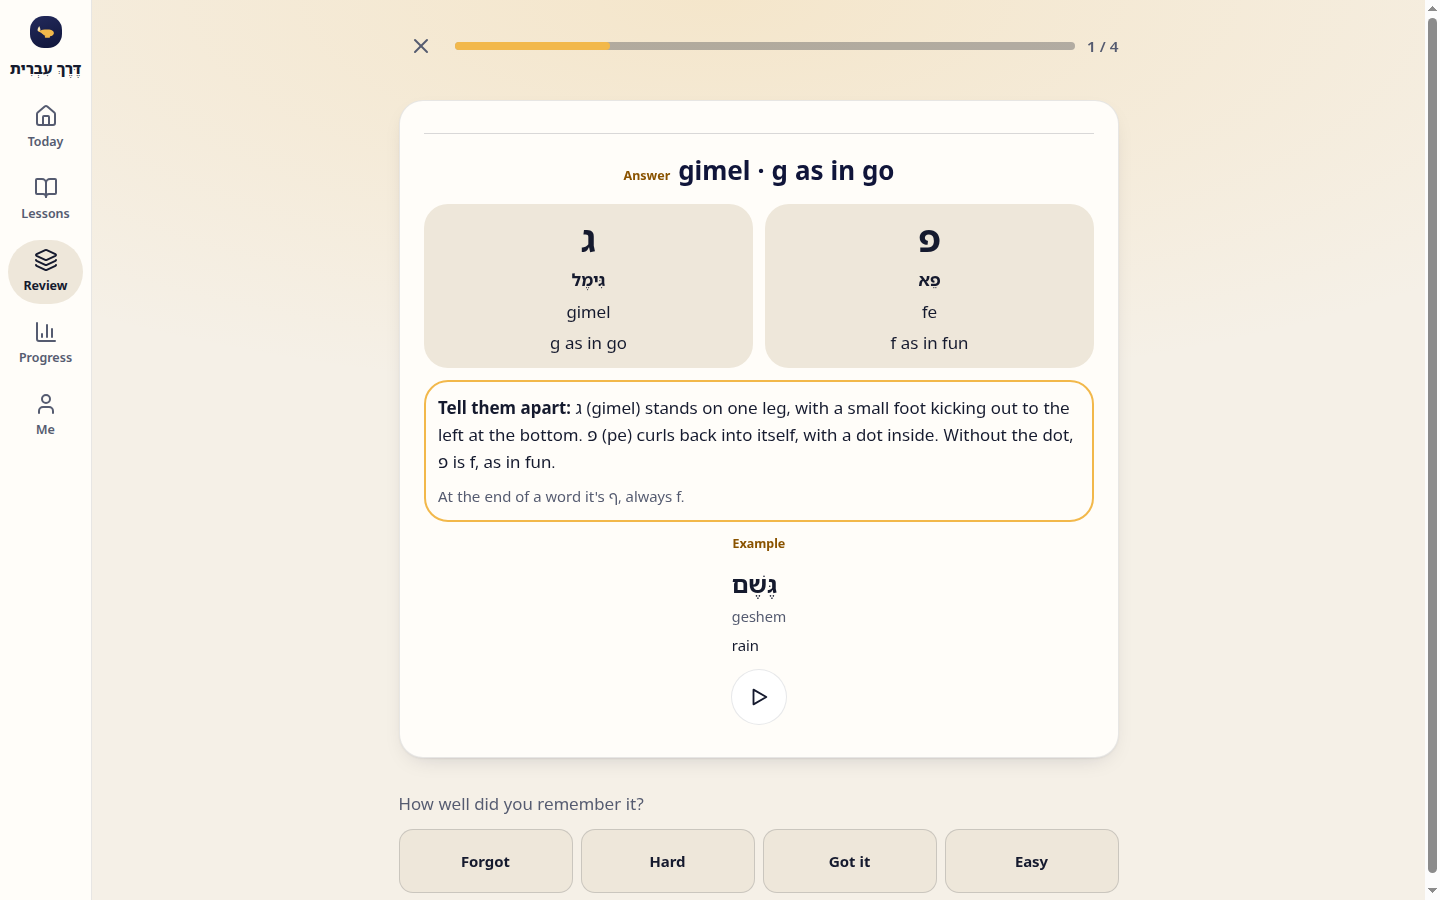
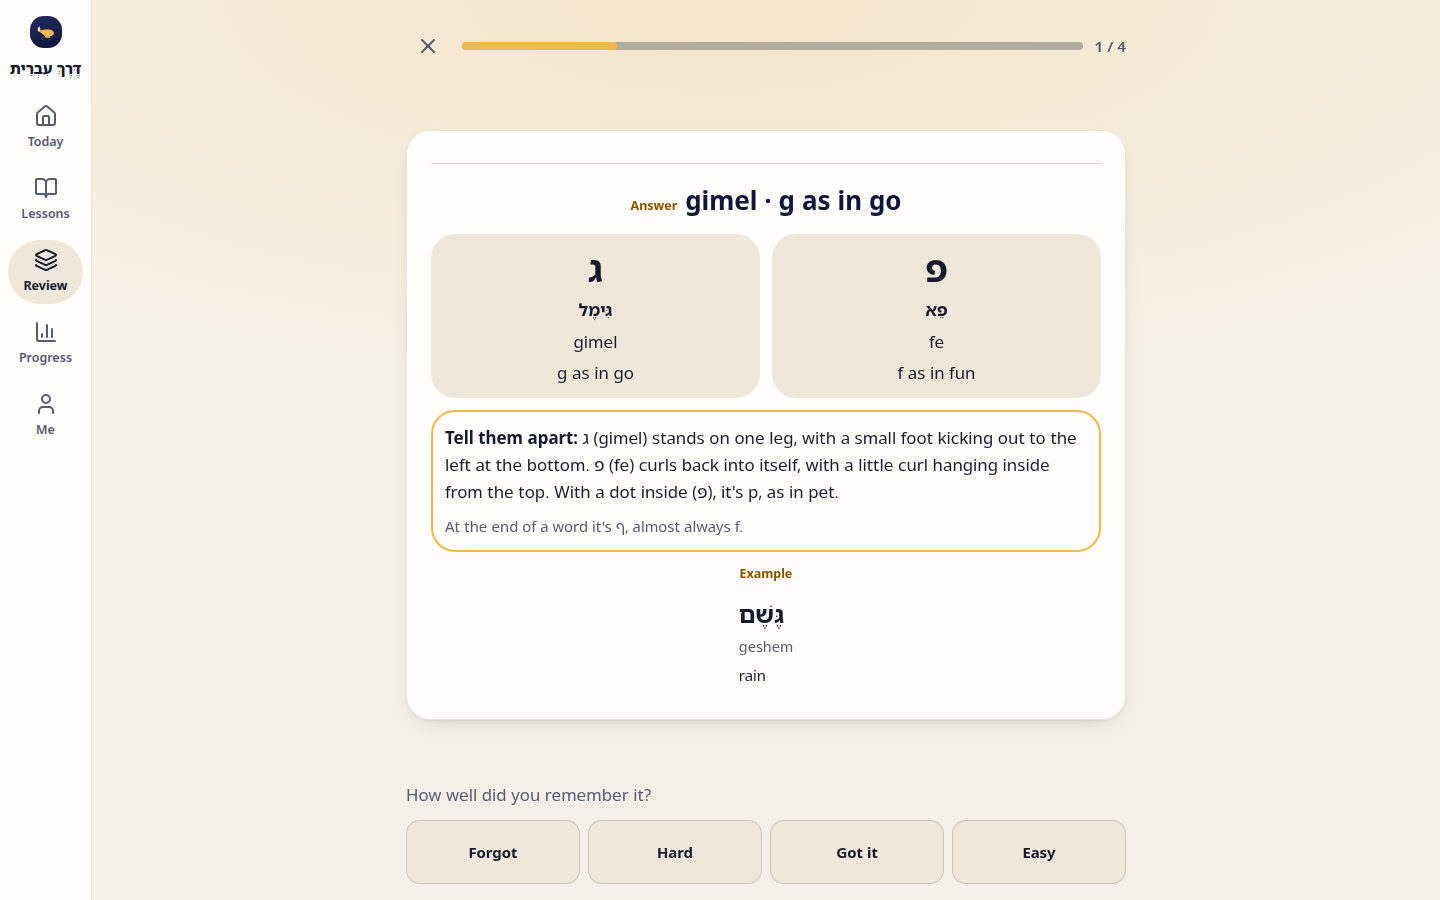
Name each dotted cue with the glyph it shows.
בּ, כּ, and פּ use bet, kaf, and pe. ג/פ names fe, and the final-pe note says almost always f.

diff --git a/internal/web/alefbet_test.go b/internal/web/alefbet_test.go
@@ -7,6 +7,7 @@ import (
 	"unicode"
 
 	"github.com/NetworkBuild3r/hebrew-lessons/internal/web/views"
+	"golang.org/x/text/unicode/norm"
 )
 
 var alefbetTranslit = regexp.MustCompile(`^[a-z' -]+$`)
@@ -192,6 +193,127 @@ func TestAlefbetReference(t *testing.T) {
 	}
 }
 
+// cueLabel is a "glyph (name)" in a tell-apart line. The glyph may include
+// dagesh (U+05BC) or a shin/sin dot.
+var cueLabel = regexp.MustCompile(`([\p{Hebrew}]+) \(([^)]+)\)`)
+
+// TestAlefbetPairLabels checks every pair variant: the name in each label is
+// the name of the glyph that label shows. Dagesh is U+05BC. The expected
+// names are written here, not taken from the cue constants.
+func TestAlefbetPairLabels(t *testing.T) {
+	const dagesh = "\u05BC"
+	names := map[string]string{
+		"\u05D1":          "vet",
+		"\u05D1" + dagesh: "bet",
+		"\u05DB":          "khaf",
+		"\u05DB" + dagesh: "kaf",
+		"\u05E4":          "fe",
+		"\u05E4" + dagesh: "pe",
+		"\u05DA":          "khaf sofit",
+		"\u05E3":          "fe sofit",
+		"\u05DD":          "mem sofit",
+		"\u05DF":          "nun sofit",
+		"\u05E5":          "tsadi sofit",
+		"\u05D2":          "gimel",
+		"\u05D3":          "dalet",
+		"\u05D4":          "he",
+		"\u05D5":          "vav",
+		"\u05D6":          "zayin",
+		"\u05D7":          "khet",
+		"\u05D8":          "tet",
+		"\u05DE":          "mem",
+		"\u05E0":          "nun",
+		"\u05E1":          "samekh",
+		"\u05E2":          "ayin",
+		"\u05E6":          "tsadi",
+		"\u05E8":          "resh",
+		"\u05EA":          "tav",
+		"\u05E9\u05C1":    "shin",
+		"\u05E9\u05C2":    "sin",
+	}
+	variants := [][2]string{
+		{"\u05D1", "\u05DB"},
+		{"\u05D1" + dagesh, "\u05DB"},
+		{"\u05D1", "\u05DB" + dagesh},
+		{"\u05D1" + dagesh, "\u05DB" + dagesh},
+		{"\u05D3", "\u05E8"},
+		{"\u05D4", "\u05D7"},
+		{"\u05D7", "\u05EA"},
+		{"\u05D5", "\u05D6"},
+		{"\u05D5", "\u05DF"},
+		{"\u05D8", "\u05DE"},
+		{"\u05E1", "\u05DD"},
+		{"\u05D2", "\u05E0"},
+		{"\u05E6", "\u05E2"},
+		{"\u05E4", "\u05DB"},
+		{"\u05E4" + dagesh, "\u05DB"},
+		{"\u05E4", "\u05DB" + dagesh},
+		{"\u05E4" + dagesh, "\u05DB" + dagesh},
+		{"\u05E3", "\u05DA"},
+		{"\u05E9\u05C1", "\u05E9\u05C2"},
+		{"\u05DE", "\u05DD"},
+		{"\u05E0", "\u05DF"},
+		{"\u05DB", "\u05DA"},
+		{"\u05DB" + dagesh, "\u05DA"},
+		{"\u05E4", "\u05E3"},
+		{"\u05E4" + dagesh, "\u05E3"},
+		{"\u05E6", "\u05E5"},
+		{"\u05D2", "\u05E4"},
+		{"\u05D2", "\u05E4" + dagesh},
+	}
+	if len(variants) != 28 {
+		t.Fatalf("pair variants = %d, want 28", len(variants))
+	}
+	exact := map[string]string{
+		"\u05D1" + dagesh + "/\u05DB": "\u05D1" + dagesh + " (bet) has a little tail at the bottom right; \u05DB (khaf) is round.",
+		"\u05DB" + dagesh + "/\u05DA": "\u05DB" + dagesh + " (kaf) sits on the line; \u05DA (khaf sofit) drops below the line.",
+		"\u05E4" + dagesh + "/\u05E3": "\u05E4" + dagesh + " (pe) sits on the line; \u05E3 (fe sofit) drops below the line.",
+		"\u05D2/\u05E4":               "\u05D2 (gimel) stands on one leg, with a small foot kicking out to the left at the bottom. \u05E4 (fe) curls back into itself, with a little curl hanging inside from the top. With a dot inside (\u05E4" + dagesh + "), it's p, as in pet.",
+		"\u05D2/\u05E4" + dagesh:      "\u05D2 (gimel) stands on one leg, with a small foot kicking out to the left at the bottom. \u05E4" + dagesh + " (pe) curls back into itself, with a dot inside. Without the dot, \u05E4 is f, as in fun.",
+	}
+	wantNote := "At the end of a word it's \u05E3, almost always f."
+	for _, pair := range variants {
+		cue := views.AlefbetTellApart([]string{pair[0], pair[1]})
+		if cue == "" {
+			t.Fatalf("%q/%q has no cue", pair[0], pair[1])
+		}
+		key := pair[0] + "/" + pair[1]
+		if want, ok := exact[key]; ok && cue != want {
+			t.Fatalf("%s cue = %q", key, cue)
+		}
+		seen := map[string]string{}
+		for _, m := range cueLabel.FindAllStringSubmatch(cue, -1) {
+			glyph := norm.NFC.String(m[1])
+			want, ok := names[glyph]
+			if !ok {
+				t.Fatalf("%s labels unknown glyph %q as %q", key, glyph, m[2])
+			}
+			if m[2] != want {
+				t.Fatalf("%s label %q wants %q, got %q", key, glyph, want, m[2])
+			}
+			seen[glyph] = m[2]
+		}
+		if len(seen) == 0 {
+			t.Fatalf("%s cue has no glyph label: %q", key, cue)
+		}
+		for _, letter := range pair {
+			glyph := norm.NFC.String(letter)
+			want, ok := names[glyph]
+			if !ok {
+				t.Fatalf("%s has no name for %q", key, glyph)
+			}
+			if seen[glyph] != want {
+				t.Fatalf("%s does not label %q as %q: %q", key, glyph, want, cue)
+			}
+		}
+	}
+	for _, pair := range [][2]string{{"\u05D2", "\u05E4"}, {"\u05D2", "\u05E4" + dagesh}} {
+		if got := views.AlefbetPairNote([]string{pair[0], pair[1]}); got != wantNote {
+			t.Fatalf("%q/%q note = %q", pair[0], pair[1], got)
+		}
+	}
+}
+
 func nameHasNiqqud(s string) bool {
 	for _, r := range s {
 		if unicode.Is(unicode.Mn, r) {
@@ -272,21 +394,25 @@ func TestReviewPeDageshUsesAlefbet(t *testing.T) {
 
 const (
 	gimelPeCue   = "ג (gimel) stands on one leg, with a small foot kicking out to the left at the bottom. פּ (pe) curls back into itself, with a dot inside. Without the dot, פ is f, as in fun."
-	gimelPeNote  = "At the end of a word it's ף, always f."
+	gimelFeCue   = "ג (gimel) stands on one leg, with a small foot kicking out to the left at the bottom. פ (fe) curls back into itself, with a little curl hanging inside from the top. With a dot inside (פּ), it's p, as in pet."
+	gimelPeNote  = "At the end of a word it's ף, almost always f."
 	hardNoteHTML = `At the start of a word, <bdi lang="he" dir="rtl">ב</bdi>, <bdi lang="he" dir="rtl">כ</bdi>, and <bdi lang="he" dir="rtl">פ</bdi> are almost always hard (b, k, p).`
 )
 
 // TestReviewGimelPeCue renders Brian's ג/פ cue and the final-pe note.
 func TestReviewGimelPeCue(t *testing.T) {
-	if !strings.Contains(gimelPeCue, "\u05e4\u05bc (pe)") || !strings.Contains(gimelPeNote, "\u05e3") {
-		t.Fatal("gimel/pe cue must name פּ and the note must name ף")
+	if !strings.Contains(gimelPeCue, "\u05e4\u05bc (pe)") || !strings.Contains(gimelFeCue, "\u05e4 (fe)") || !strings.Contains(gimelPeNote, "almost always f") {
+		t.Fatal("gimel/pe cues must name the letter the card shows, and the note must say almost always f")
 	}
-	for _, key := range []string{"ג/פ", "ג/פ\u05BC"} {
-		if views.AlefbetTellApart(strings.Split(key, "/")) != gimelPeCue {
-			t.Fatalf("%s cue = %q", key, views.AlefbetTellApart(strings.Split(key, "/")))
+	for _, row := range []struct{ key, cue string }{
+		{"ג/פ", gimelFeCue},
+		{"ג/פ\u05BC", gimelPeCue},
+	} {
+		if views.AlefbetTellApart(strings.Split(row.key, "/")) != row.cue {
+			t.Fatalf("%s cue = %q", row.key, views.AlefbetTellApart(strings.Split(row.key, "/")))
 		}
-		if views.AlefbetPairNote(strings.Split(key, "/")) != gimelPeNote {
-			t.Fatalf("%s note = %q", key, views.AlefbetPairNote(strings.Split(key, "/")))
+		if views.AlefbetPairNote(strings.Split(row.key, "/")) != gimelPeNote {
+			t.Fatalf("%s note = %q", row.key, views.AlefbetPairNote(strings.Split(row.key, "/")))
 		}
 	}
 	store, h, now := openApp(t)
@@ -301,10 +427,10 @@ func TestReviewGimelPeCue(t *testing.T) {
 	for _, want := range []string{
 		"<b>Tell them apart:</b>",
 		"stands on one leg, with a small foot kicking out to the left at the bottom.",
-		"(pe) curls back into itself, with a dot inside.",
-		"is f, as in fun.",
+		"(fe) curls back into itself, with a little curl hanging inside from the top.",
+		"p, as in pet",
 		"At the end of a word it&#39;s",
-		"always f.",
+		"almost always f.",
 		`<bdi lang="he" dir="rtl">ג</bdi>`,
 		`<bdi lang="he" dir="rtl">פּ</bdi>`,
 		`<bdi lang="he" dir="rtl">ף</bdi>`,

diff --git a/internal/web/views/alefbet.go b/internal/web/views/alefbet.go
@@ -97,9 +97,11 @@ const (
 	cueKafSof    = "כ (khaf) sits on the line; ך (khaf sofit) drops below the line."
 	cuePeSof     = "פ (fe) sits on the line; ף (fe sofit) drops below the line."
 	cueTsadiSof  = "צ (tsadi) sits on the line; ץ (tsadi sofit) drops below the line."
-	// cueGimelPe is Brian's ג/פ confusion. The same wording covers ג/פּ.
+	// cueGimelPe is the dotted pair ג/פּ. cueGimelFe is the undotted pair ג/פ.
+	// The shape of each sentence is its own; a dagesh rewrite does not turn one into the other.
 	cueGimelPe  = "ג (gimel) stands on one leg, with a small foot kicking out to the left at the bottom. פּ (pe) curls back into itself, with a dot inside. Without the dot, פ is f, as in fun."
-	noteGimelPe = "At the end of a word it's ף, always f."
+	cueGimelFe  = "ג (gimel) stands on one leg, with a small foot kicking out to the left at the bottom. פ (fe) curls back into itself, with a little curl hanging inside from the top. With a dot inside (פּ), it's p, as in pet."
+	noteGimelPe = "At the end of a word it's ף, almost always f."
 )
 
 var alefbetPairs = []alefbetPair{
@@ -129,18 +131,42 @@ var alefbetPairs = []alefbetPair{
 	{letters: [2]string{"פ", "ף"}, cue: cuePeSof},
 	{letters: [2]string{"פּ", "ף"}, cue: cuePeSof},
 	{letters: [2]string{"צ", "ץ"}, cue: cueTsadiSof},
-	{letters: [2]string{"ג", "פ"}, cue: cueGimelPe, note: noteGimelPe},
+	{letters: [2]string{"ג", "פ"}, cue: cueGimelFe, note: noteGimelPe},
 	{letters: [2]string{"ג", "פּ"}, cue: cueGimelPe, note: noteGimelPe},
 }
 
 var alefbetBy map[string]AlefbetEntry
 
 func init() {
+	for i := range alefbetPairs {
+		alefbetPairs[i].cue = dottedCue(alefbetPairs[i])
+	}
 	alefbetBy = make(map[string]AlefbetEntry, len(Alefbet))
 	for i := range Alefbet {
 		Alefbet[i].Cue = alefbetCues(Alefbet[i].Letter)
 		alefbetBy[norm.NFC.String(Alefbet[i].Letter)] = Alefbet[i]
 	}
+}
+
+// dottedCue keeps the signed-off shape and rewrites a label when that side
+// of the pair is the dotted letter. בּ is bet, כּ is kaf, פּ is pe.
+// Undotted sides stay vet, khaf, and fe. ג/פ is not produced this way.
+func dottedCue(pair alefbetPair) string {
+	cue := pair.cue
+	for _, letter := range pair.letters {
+		if !strings.ContainsRune(letter, '\u05BC') {
+			continue
+		}
+		switch stripDagesh(norm.NFC.String(letter)) {
+		case "ב":
+			cue = strings.ReplaceAll(cue, "ב (vet)", "ב\u05BC (bet)")
+		case "כ":
+			cue = strings.ReplaceAll(cue, "כ (khaf)", "כ\u05BC (kaf)")
+		case "פ":
+			cue = strings.ReplaceAll(cue, "פ (fe)", "פ\u05BC (pe)")
+		}
+	}
+	return cue
 }
 
 // AlefbetForms is the twenty-two letters and the five final forms.

diff --git a/internal/web/review_anki_test.go b/internal/web/review_anki_test.go
@@ -564,6 +564,26 @@ func TestReviewFrontHasNoAnswerHeading(t *testing.T) {
 			if !strings.Contains(body, "Show answer") || strings.Contains(body, `name="rating"`) {
 				t.Fatalf("htmx response was not the next front\n%s", body)
 			}
+			// Read and listen clear the gloss before the HTTP render, so a
+			// back rendered on the front stays invisible there. This render
+			// still has the gloss and goes through the same face choice.
+			if kind == "read" || kind == "listen" {
+				gloss := kind + "-meaning"
+				tr := kind + "-tr"
+				card := views.ReviewCard{
+					Kind: kind, Lang: "en",
+					Pointed: "שלום", Unpointed: "שלום",
+					Translit: tr, AudioURL: "/audio/x.mp3",
+					Gloss: gloss, Gender: "m",
+				}
+				html := renderMode(t, views.ReviewBody(card))
+				if strings.Contains(html, gloss) || strings.Contains(html, `class="act__answer"`) {
+					t.Fatalf("%s front rendered the back\n%s", kind, html)
+				}
+				if !strings.Contains(html, tr) || !strings.Contains(html, "שלום") {
+					t.Fatalf("%s front dropped the prompt\n%s", kind, html)
+				}
+			}
 		})
 	}
 }
